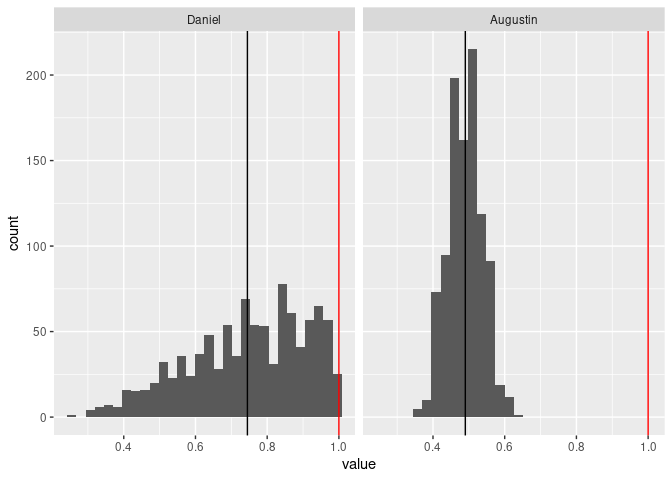
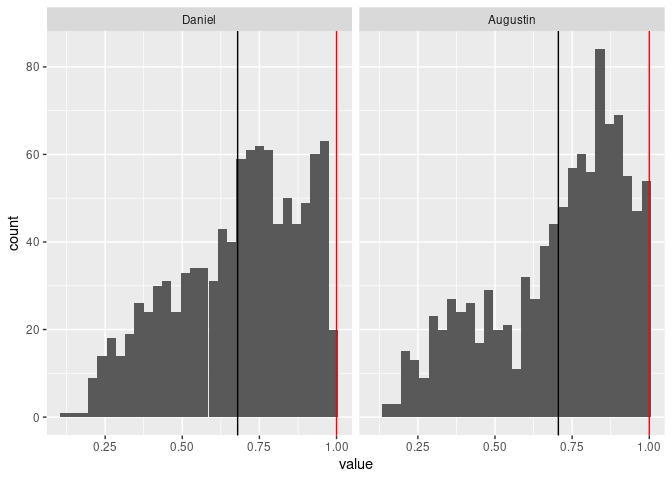
maj compare.Rmd

diff --git a/compare2.md b/compare2.md
@@ -95,7 +95,31 @@ Gibbs_q(x = xx,
 system.time({Augustin<-Gibbs(N=1000,a=a,A=aa,b=b,B=bb,k=k,U=0,phi=0,X=xx,Y=y)$q})
 save(s,r_y,Daniel,Augustin,file="compare.rda")
 }
+```
 
+    FALSE [1] "2023-12-07 23:46:481000"
+    FALSE [1] 50
+    FALSE [1] 100
+    FALSE [1] 150
+    FALSE [1] 200
+    FALSE [1] 250
+    FALSE [1] 300
+    FALSE [1] 350
+    FALSE [1] 400
+    FALSE [1] 450
+    FALSE [1] 500
+    FALSE [1] 550
+    FALSE [1] 600
+    FALSE [1] 650
+    FALSE [1] 700
+    FALSE [1] 750
+    FALSE [1] 800
+    FALSE [1] 850
+    FALSE [1] 900
+    FALSE [1] 950
+    FALSE [1] 1000
+
+``` r
 load("compare.rda")
 library(ggplot2)
 s
